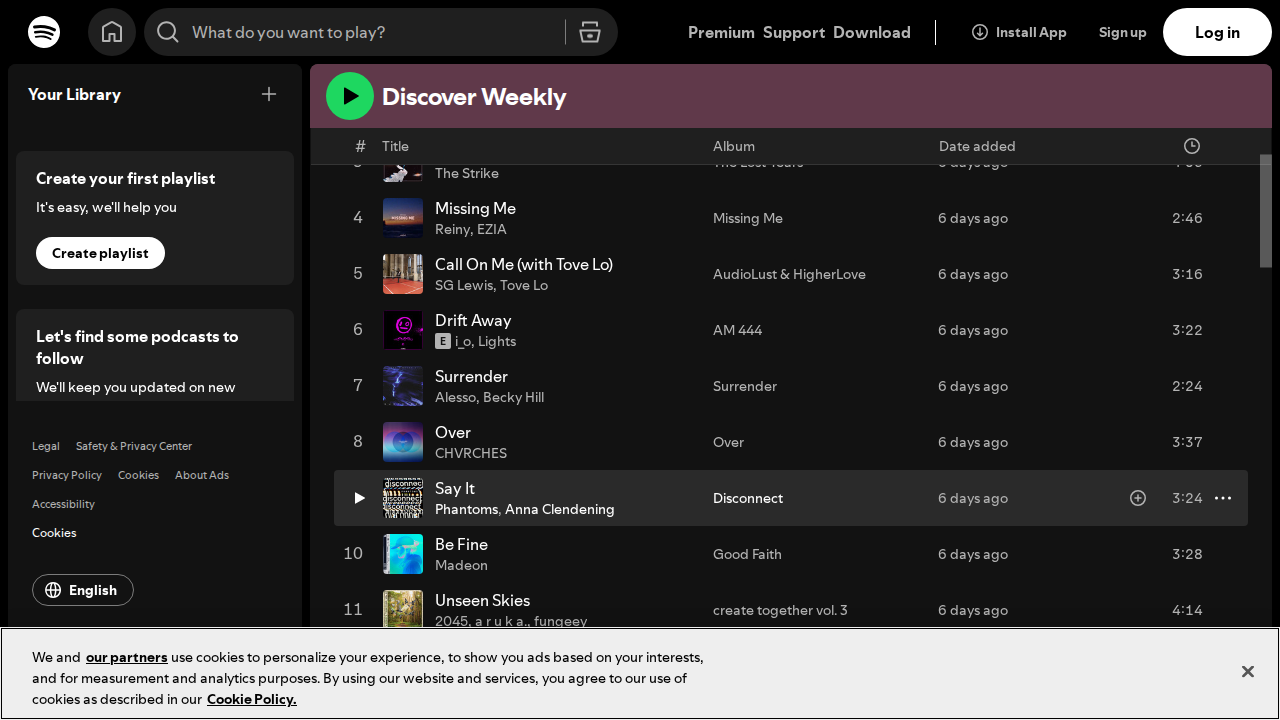
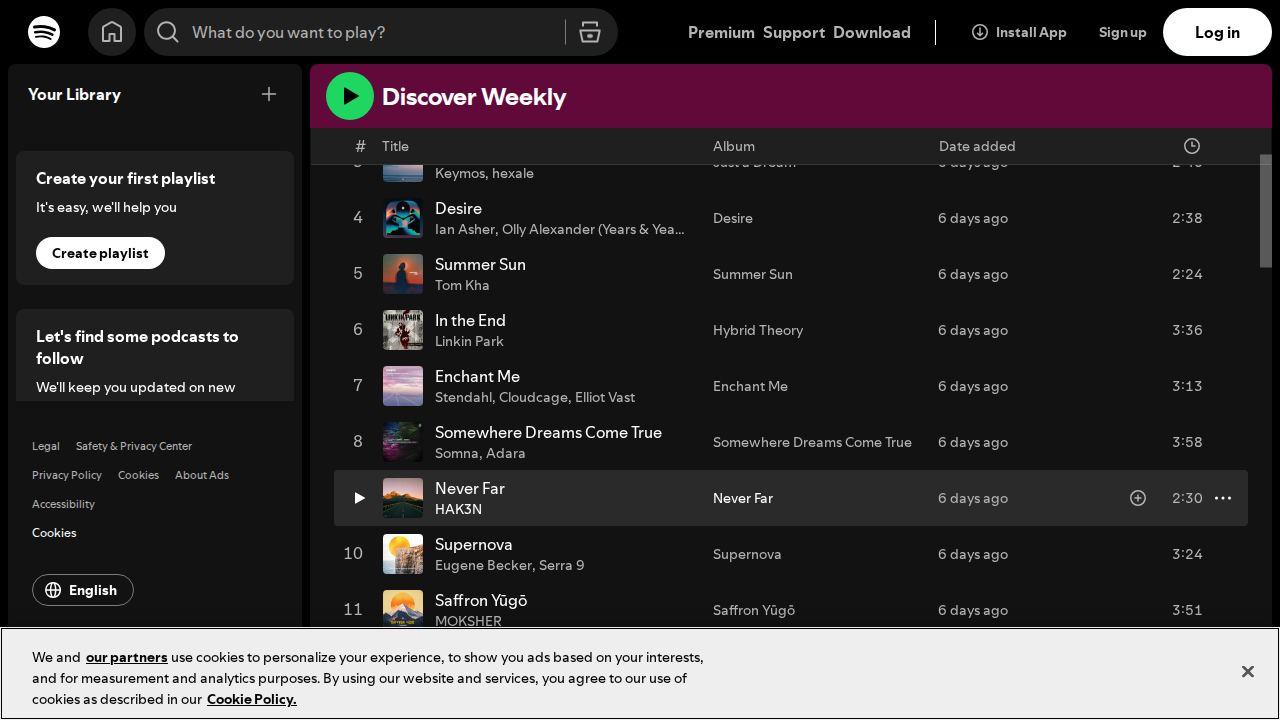
Add playwright script and update discover weekly tracks; enhance README with setup instructions

diff --git a/include/site/python3.12/greenlet/greenlet.h b/include/site/python3.12/greenlet/greenlet.h
@@ -1,0 +1,164 @@
+/* -*- indent-tabs-mode: nil; tab-width: 4; -*- */
+
+/* Greenlet object interface */
+
+#ifndef Py_GREENLETOBJECT_H
+#define Py_GREENLETOBJECT_H
+
+
+#include <Python.h>
+
+#ifdef __cplusplus
+extern "C" {
+#endif
+
+/* This is deprecated and undocumented. It does not change. */
+#define GREENLET_VERSION "1.0.0"
+
+#ifndef GREENLET_MODULE
+#define implementation_ptr_t void*
+#endif
+
+typedef struct _greenlet {
+    PyObject_HEAD
+    PyObject* weakreflist;
+    PyObject* dict;
+    implementation_ptr_t pimpl;
+} PyGreenlet;
+
+#define PyGreenlet_Check(op) (op && PyObject_TypeCheck(op, &PyGreenlet_Type))
+
+
+/* C API functions */
+
+/* Total number of symbols that are exported */
+#define PyGreenlet_API_pointers 12
+
+#define PyGreenlet_Type_NUM 0
+#define PyExc_GreenletError_NUM 1
+#define PyExc_GreenletExit_NUM 2
+
+#define PyGreenlet_New_NUM 3
+#define PyGreenlet_GetCurrent_NUM 4
+#define PyGreenlet_Throw_NUM 5
+#define PyGreenlet_Switch_NUM 6
+#define PyGreenlet_SetParent_NUM 7
+
+#define PyGreenlet_MAIN_NUM 8
+#define PyGreenlet_STARTED_NUM 9
+#define PyGreenlet_ACTIVE_NUM 10
+#define PyGreenlet_GET_PARENT_NUM 11
+
+#ifndef GREENLET_MODULE
+/* This section is used by modules that uses the greenlet C API */
+static void** _PyGreenlet_API = NULL;
+
+#    define PyGreenlet_Type \
+        (*(PyTypeObject*)_PyGreenlet_API[PyGreenlet_Type_NUM])
+
+#    define PyExc_GreenletError \
+        ((PyObject*)_PyGreenlet_API[PyExc_GreenletError_NUM])
+
+#    define PyExc_GreenletExit \
+        ((PyObject*)_PyGreenlet_API[PyExc_GreenletExit_NUM])
+
+/*
+ * PyGreenlet_New(PyObject *args)
+ *
+ * greenlet.greenlet(run, parent=None)
+ */
+#    define PyGreenlet_New                                        \
+        (*(PyGreenlet * (*)(PyObject * run, PyGreenlet * parent)) \
+             _PyGreenlet_API[PyGreenlet_New_NUM])
+
+/*
+ * PyGreenlet_GetCurrent(void)
+ *
+ * greenlet.getcurrent()
+ */
+#    define PyGreenlet_GetCurrent \
+        (*(PyGreenlet * (*)(void)) _PyGreenlet_API[PyGreenlet_GetCurrent_NUM])
+
+/*
+ * PyGreenlet_Throw(
+ *         PyGreenlet *greenlet,
+ *         PyObject *typ,
+ *         PyObject *val,
+ *         PyObject *tb)
+ *
+ * g.throw(...)
+ */
+#    define PyGreenlet_Throw                 \
+        (*(PyObject * (*)(PyGreenlet * self, \
+                          PyObject * typ,    \
+                          PyObject * val,    \
+                          PyObject * tb))    \
+             _PyGreenlet_API[PyGreenlet_Throw_NUM])
+
+/*
+ * PyGreenlet_Switch(PyGreenlet *greenlet, PyObject *args)
+ *
+ * g.switch(*args, **kwargs)
+ */
+#    define PyGreenlet_Switch                                              \
+        (*(PyObject *                                                      \
+           (*)(PyGreenlet * greenlet, PyObject * args, PyObject * kwargs)) \
+             _PyGreenlet_API[PyGreenlet_Switch_NUM])
+
+/*
+ * PyGreenlet_SetParent(PyObject *greenlet, PyObject *new_parent)
+ *
+ * g.parent = new_parent
+ */
+#    define PyGreenlet_SetParent                                 \
+        (*(int (*)(PyGreenlet * greenlet, PyGreenlet * nparent)) \
+             _PyGreenlet_API[PyGreenlet_SetParent_NUM])
+
+/*
+ * PyGreenlet_GetParent(PyObject* greenlet)
+ *
+ * return greenlet.parent;
+ *
+ * This could return NULL even if there is no exception active.
+ * If it does not return NULL, you are responsible for decrementing the
+ * reference count.
+ */
+#     define PyGreenlet_GetParent                                    \
+    (*(PyGreenlet* (*)(PyGreenlet*))                                 \
+     _PyGreenlet_API[PyGreenlet_GET_PARENT_NUM])
+
+/*
+ * deprecated, undocumented alias.
+ */
+#     define PyGreenlet_GET_PARENT PyGreenlet_GetParent
+
+#     define PyGreenlet_MAIN                                         \
+    (*(int (*)(PyGreenlet*))                                         \
+     _PyGreenlet_API[PyGreenlet_MAIN_NUM])
+
+#     define PyGreenlet_STARTED                                      \
+    (*(int (*)(PyGreenlet*))                                         \
+     _PyGreenlet_API[PyGreenlet_STARTED_NUM])
+
+#     define PyGreenlet_ACTIVE                                       \
+    (*(int (*)(PyGreenlet*))                                         \
+     _PyGreenlet_API[PyGreenlet_ACTIVE_NUM])
+
+
+
+
+/* Macro that imports greenlet and initializes C API */
+/* NOTE: This has actually moved to ``greenlet._greenlet._C_API``, but we
+   keep the older definition to be sure older code that might have a copy of
+   the header still works. */
+#    define PyGreenlet_Import()                                               \
+        {                                                                     \
+            _PyGreenlet_API = (void**)PyCapsule_Import("greenlet._C_API", 0); \
+        }
+
+#endif /* GREENLET_MODULE */
+
+#ifdef __cplusplus
+}
+#endif
+#endif /* !Py_GREENLETOBJECT_H */

diff --git a/spotify_discover.py b/spotify_discover.py
@@ -6,7 +6,6 @@ import asyncio
 from datetime import datetime, timedelta
 from dotenv import load_dotenv
 from lxml.html import fromstring
-
 from playwright.async_api import async_playwright
 
 # Load environment variables from .env file
@@ -42,7 +41,8 @@ def get_playlist_url(playlist_id):
 async def fetch_playlist_content(url):
     async with async_playwright() as p:
         browser = await p.chromium.launch(headless=True)
-        page = await browser.new_page()
+        context = await browser.new_context()  # Create an incognito browser context
+        page = await context.new_page()
         await page.goto(url, wait_until='networkidle')
         # Correct scroll container selector - verify this matches Spotify's layout
         scroll_container = '.main-view-container'

diff --git a/readme.md b/readme.md
@@ -2,6 +2,25 @@
 
 This project helps you transfer your Spotify Discover Weekly playlist to Qobuz.
 
+## Config
+
+1. Open your discover weekly playlist in spotify and save the playlist, make sure it is publicly accessible
+2. Create the file `.env` in the root of this project
+
+```
+QOBUZ_USER='<your_qobuz_email>'
+QOBUZ_PASS='<your_qobuz_password>'
+SPOTIFY_PLAYLIST_MAP='discover_weekly:37i9dQZa7AXcQtPyCIvdJFH' # Change this to your public spotify discover weekly ID
+```
+
+## PyEnv Quick start
+
+```bash
+source bin/activate
+pip install -r requirements.txt
+# Follow any playwright instructions
+```
+
 **How it works:**
 1. Run `spotify_discover.py` to create `discover_weekly_tracks.json` containing your Discover Weekly tracks from Spotify.
 2. Run `qobuz_copy_discover.py` to read that JSON and add the tracks to your Qobuz account.
